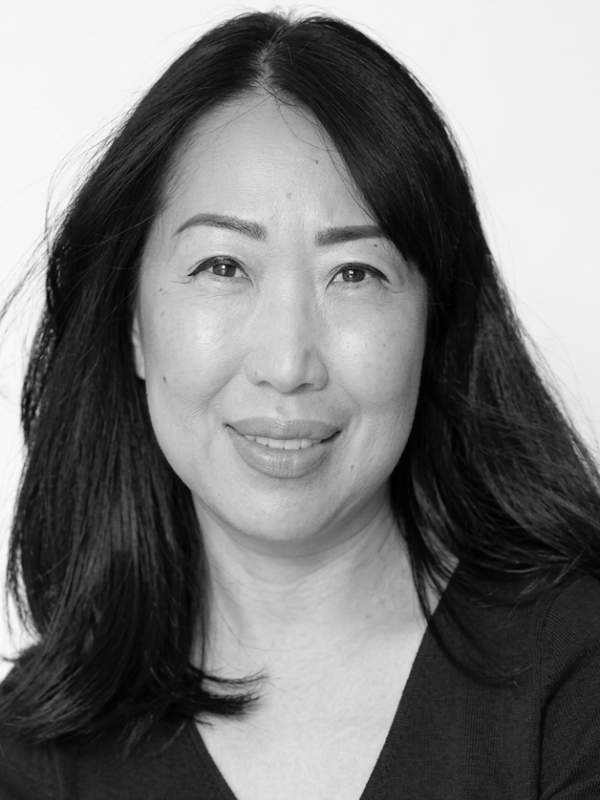
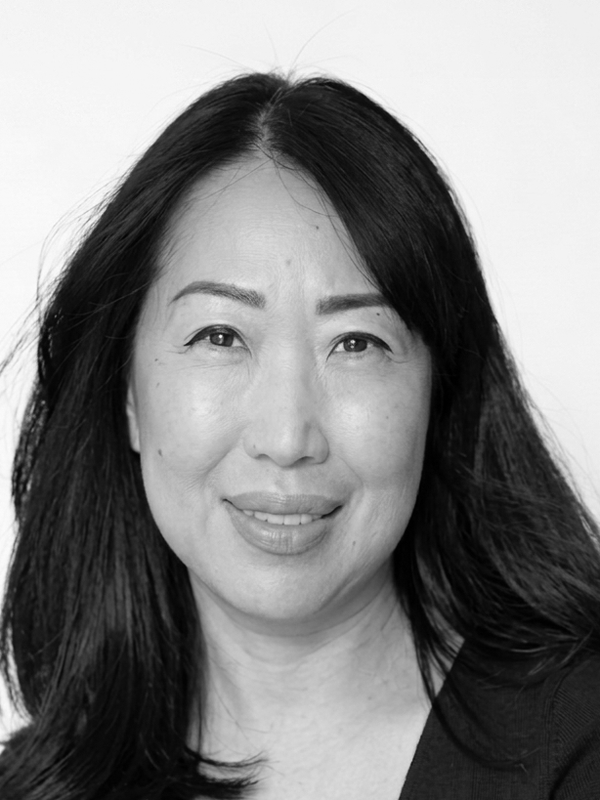
Update Aksana photo, adjust team photo framing and contact page padding

diff --git a/contact.html b/contact.html
@@ -50,7 +50,7 @@
   </nav>
 
   <main class="pt-36 md:pt-32">
-    <section class="py-24 md:py-32 px-6 md:px-12 max-w-[1920px] mx-auto">
+    <section class="pt-12 pb-24 md:pt-16 md:pb-32 px-6 md:px-12 max-w-[1920px] mx-auto">
       <div class="grid grid-cols-12 gap-10 items-start">
         <div class="col-span-12 lg:col-span-5">
           <span class="uppercase tracking-[0.2em] text-primary mb-6 block font-semibold text-sm">contact</span>
